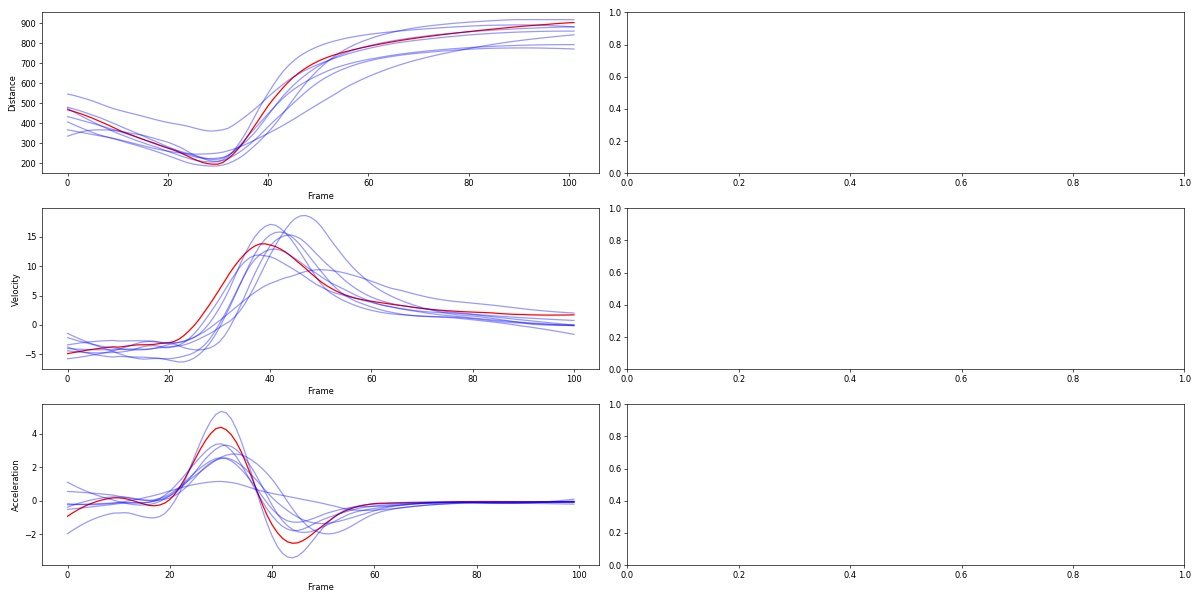
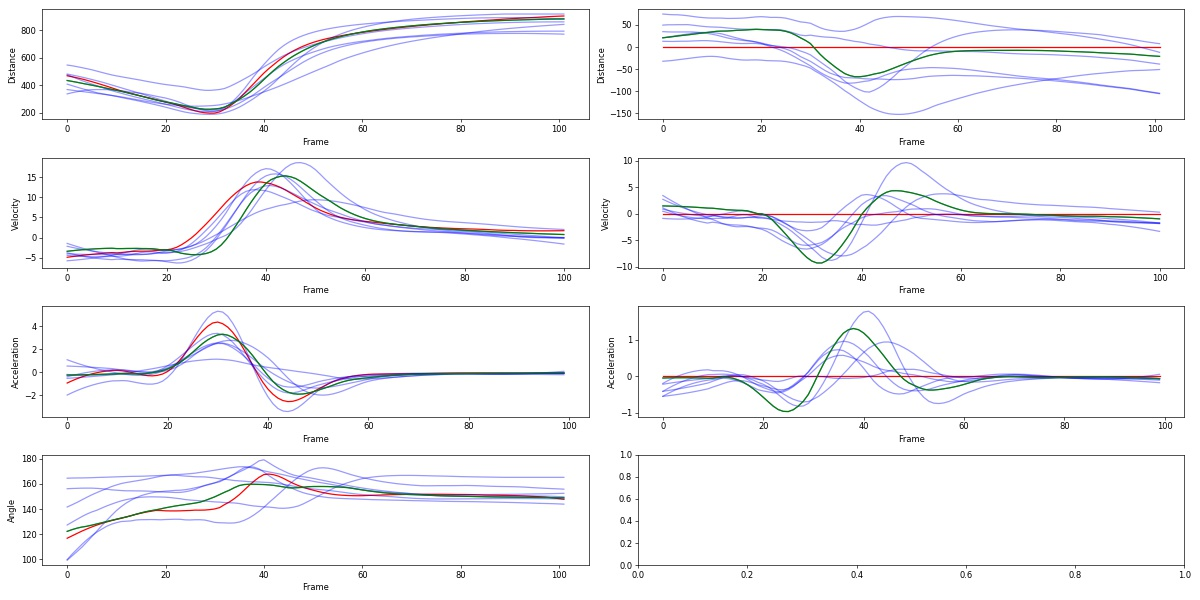
added choose plot and highlight graph

diff --git a/vis.py b/vis.py
@@ -276,7 +276,7 @@ def Hagerstrand(plot1,index,bones,joints,graph_id):
     
     plt.show()
         
-def plotpositionalderivatives(index,bones,joints):
+def plotpositionalderivatives(index,bones,joints,plot_num):
     
     fig, axs = plt.subplots(4,2,figsize=(20, 10))
    
@@ -290,6 +290,7 @@ def plotpositionalderivatives(index,bones,joints):
     axs[0,0].plot(df.iloc[5,:],'b',alpha=0.4)
     axs[0,0].plot(df.iloc[6,:],'b',alpha=0.4)
     axs[0,0].plot(df.iloc[7,:],'b',alpha=0.4)
+    axs[0,0].plot(df.iloc[plot_num,:],'g')
     axs[0,0].set_ylabel('Distance')
     axs[0,0].set_xlabel('Frame')
     
@@ -302,6 +303,7 @@ def plotpositionalderivatives(index,bones,joints):
     axs[1,0].plot(df.iloc[5,:],'b',alpha=0.4)
     axs[1,0].plot(df.iloc[6,:],'b',alpha=0.4)
     axs[1,0].plot(df.iloc[7,:],'b',alpha=0.4)
+    axs[1,0].plot(df.iloc[plot_num,:],'g')
     axs[1,0].set_ylabel('Velocity')
     axs[1,0].set_xlabel('Frame')    
     
@@ -314,6 +316,7 @@ def plotpositionalderivatives(index,bones,joints):
     axs[2,0].plot(df.iloc[5,:],'b',alpha=0.4)
     axs[2,0].plot(df.iloc[6,:],'b',alpha=0.4)
     axs[2,0].plot(df.iloc[7,:],'b',alpha=0.4)   
+    axs[2,0].plot(df.iloc[plot_num,:],'g')
     axs[2,0].set_ylabel('Acceleration')
     axs[2,0].set_xlabel('Frame')
     
@@ -325,7 +328,8 @@ def plotpositionalderivatives(index,bones,joints):
     axs[0,1].plot(df.iloc[4,:],'b',alpha=0.4)
     axs[0,1].plot(df.iloc[5,:],'b',alpha=0.4)
     axs[0,1].plot(df.iloc[6,:],'b',alpha=0.4)
-    axs[0,1].plot(df.iloc[7,:],'b',alpha=0.4)   
+    axs[0,1].plot(df.iloc[7,:],'b',alpha=0.4) 
+    axs[0,1].plot(df.iloc[plot_num,:],'g')
     axs[0,1].set_ylabel('Distance')
     axs[0,1].set_xlabel('Frame')   
     
@@ -338,6 +342,7 @@ def plotpositionalderivatives(index,bones,joints):
     axs[1,1].plot(df.iloc[5,:],'b',alpha=0.4)
     axs[1,1].plot(df.iloc[6,:],'b',alpha=0.4)
     axs[1,1].plot(df.iloc[7,:],'b',alpha=0.4)   
+    axs[1,1].plot(df.iloc[plot_num,:],'g')
     axs[1,1].set_ylabel('Velocity')
     axs[1,1].set_xlabel('Frame')   
         
@@ -350,6 +355,7 @@ def plotpositionalderivatives(index,bones,joints):
     axs[2,1].plot(df.iloc[5,:],'b',alpha=0.4)
     axs[2,1].plot(df.iloc[6,:],'b',alpha=0.4)
     axs[2,1].plot(df.iloc[7,:],'b',alpha=0.4)   
+    axs[2,1].plot(df.iloc[plot_num,:],'g')
     axs[2,1].set_ylabel('Acceleration')
     axs[2,1].set_xlabel('Frame')   
 
@@ -363,13 +369,14 @@ def plotpositionalderivatives(index,bones,joints):
     axs[3,0].plot(df.iloc[5,:],'b',alpha=0.4)
     axs[3,0].plot(df.iloc[6,:],'b',alpha=0.4)
     axs[3,0].plot(df.iloc[7,:],'b',alpha=0.4)   
+    axs[3,0].plot(df.iloc[plot_num,:],'g')
     axs[3,0].set_ylabel('Angle')
     axs[3,0].set_xlabel('Frame')   
 
     fig.tight_layout()
-    plt.savefig("std_pos_vis%d.jpg"%index, dpi=60)    
+    plt.savefig("std_pos_vis_%d_%d.jpg"%(index,plot_num), dpi=60)    
     
 
 bones=[[0,1],[1,2],[2,3],[0,6],[6,7],[7,8],[0,12],[12,13],[13,14],[14,15],[13,17],[17,18],[18,19],[13,25],[25,26],[26,27]]
 joints=[0,1,2,3,6,7,8,12,13,14,15,17,18,19,25,26,27]
-plotpositionalderivatives(16,bones,joints)
+plotpositionalderivatives(16,bones,joints,4)

diff --git a/main_select.py b/main_select.py
@@ -125,26 +125,36 @@ jeleton2=temp[1]
 running = True
 #------------------------------------------------------------------------------
 #change plot menu
-
+plot_num= 4
 def M2(m):
-    global plot1,plot4,plot5,plot6,plot7,plot8,plot9,plot10,running
+    global plot_num,plot1,plot3,plot4,plot5,plot6,plot7,plot8,plot9,plot10,running
     val = m.selected
     if val == "Plot 4": 
         plot1= plot4
+        plot_num = 1
     elif val == "Plot 5":
         plot1=plot5
+        plot_num = 2
     elif val == "Plot 6":
         plot1=plot6
+        plot_num = 3
     elif val == "Plot 7":
         plot1=plot7
+        plot_num = 4
     elif val == "Plot 8":
         plot1=plot8
+        plot_num = 5
     elif val == "Plot 9":
         plot1=plot9
+        plot_num = 6
     elif val == "Plot 10":
         plot1=plot10
+        plot_num = 7
+    elif val == "Plot 3":
+        plot1 = plot3
+
     running =True
-plot_menu=menu(choices=['Plot 4','Plot 5','Plot 6','Plot 7','Plot 8','Plot 9','Plot 10'], index=0, bind=M2)
+plot_menu=menu(choices=['Plot 3','Plot 4','Plot 5','Plot 6','Plot 7','Plot 8','Plot 9','Plot 10'], index=1, bind=M2)
 #-----------------------------------------------------------------------------
 #Toggle comparison model
 Visible=True
@@ -244,8 +254,8 @@ def Run(b):
         elif graph_type ==3:
             if j_index!=None and s_index==None:
                 warning.text="""  <font color="red"> Loading graph </font> """
-                vis.plotpositionalderivatives(j_index,bones,joints)
-                gwt.text="\n\nStandard selection of visualisations for a joint:\n\n <img src='std_pos_vis%d.jpg'/>"%j_index
+                vis.plotpositionalderivatives(j_index,bones,joints,plot_num)
+                gwt.text="\n\nStandard selection of visualisations for a joint:\n\n <img src='std_pos_vis_%d_%d.jpg'/>"%(j_index,plot_num)
                 warning.text=""
                 # gwt2.text="\n"
             else:
